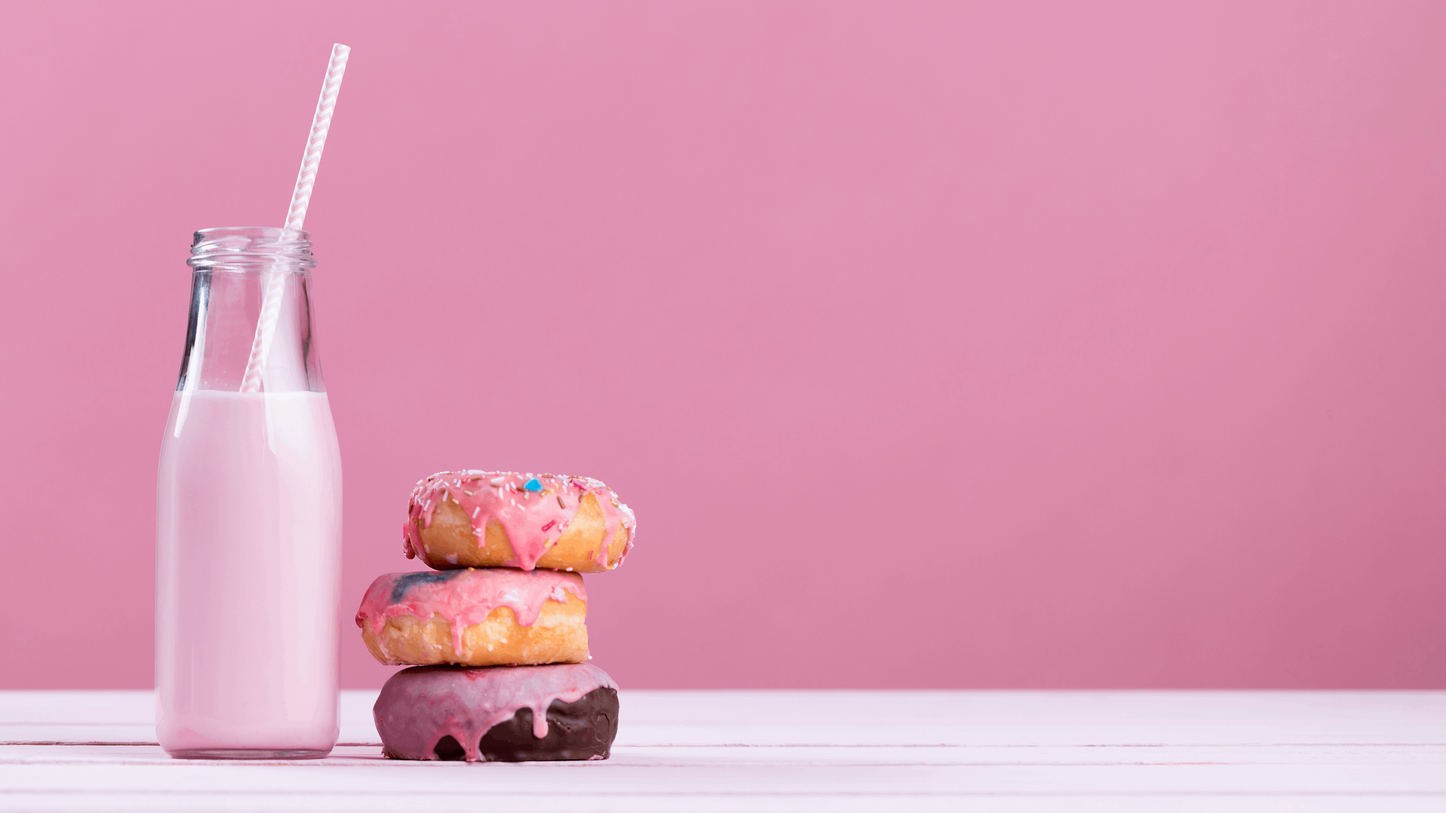
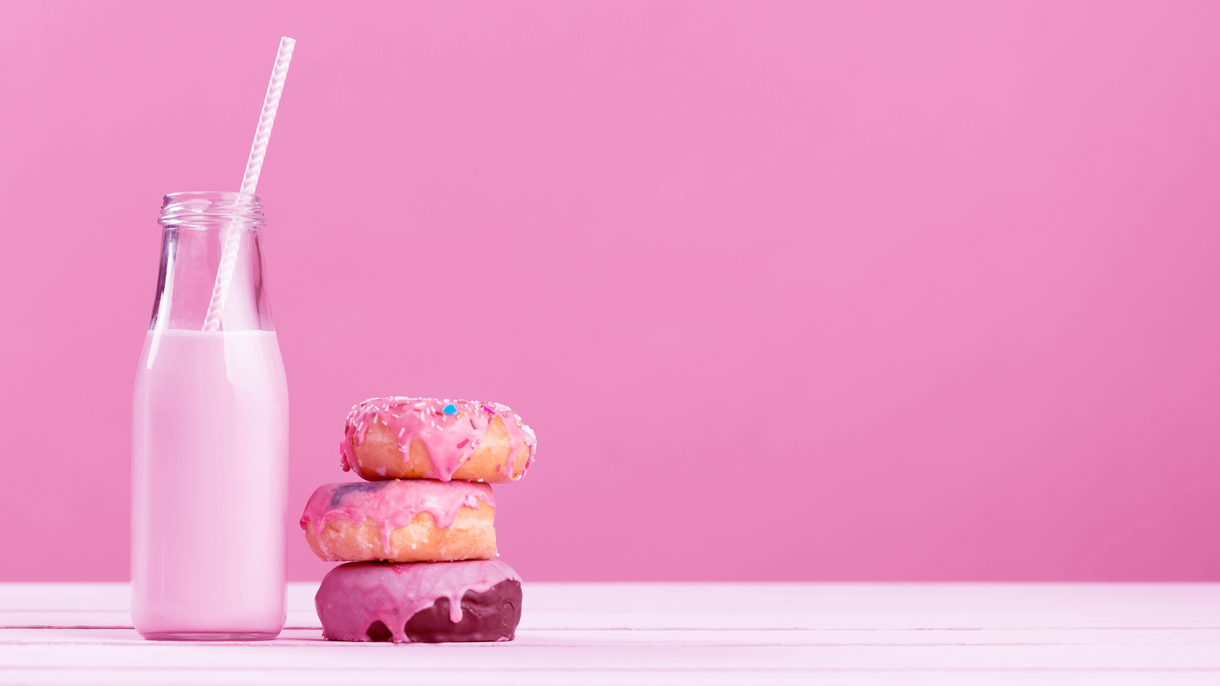
background update and text overlay fix

diff --git a/donuts/css/style.less b/donuts/css/style.less
@@ -53,13 +53,12 @@ body {
   display: block;
   width: 100%;
   height: 100%;
+  min-height: 709px;
   font-family: 'Open Sans', sans-serif;
   background: url(../img/vectorObject.png), url(../img/background.png);
   background-repeat: no-repeat, no-repeat;
   background-size: 100%, cover;
   overflow-x: hidden;
-  -webkit-backdrop-filter: saturate(150%);
-  backdrop-filter: saturate(150%);
   background-color: @white;
   margin: 0 auto;
 }
@@ -262,6 +261,7 @@ header {
   -moz-user-select: none;
   -ms-user-select: none;
   user-select: none;
+  min-height: 109px;
   .signUp {
     .alignment_header();
     background: url(../img/user_icon.png) no-repeat 0 0px;
@@ -389,15 +389,16 @@ header {
   color: @white;
   position: relative;
   z-index: 15;
-  top: 45%;
-  @media only screen and (max-width : 1920px) { top: 295px;  }
-  @media only screen and (max-width : 1366px) { top: 150px;  }
-  @media only screen and (max-width : 1040px) { top: 50px; }
-  @media only screen and (max-width : 360px)  { top: 20px; }
+  padding-top: 45%;
+  min-height: 600px;
+  @media only screen and (max-width : 1920px) { padding-top: 295px;  }
+  @media only screen and (max-width : 1366px) { padding-top: 150px;  }
+  @media only screen and (max-width : 1040px) { padding-top: 50px; }
+  @media only screen and (max-width : 360px)  { padding-top: 20px; }
   .main__content {
     position: absolute;
     right: 20%;
-    background-color: rgba(247, 130, 175, 0.4);
+    background-color: rgba(237, 143, 193, 0.4);
     border-radius: 10px;
     width: 550px;
     display: -webkit-box;
@@ -467,7 +468,7 @@ header {
 
 footer {
   display: block;
-  position: absolute;
+  position: relative;
   width: 100%;
   font-weight: bold;
   color: @color;
@@ -477,9 +478,12 @@ footer {
     text-align: right;
     font-size: 18px;
     margin-top: 48.5px;
+
+    @media only screen and (max-width : 533px)  {  font-size: 14px; text-align: center; }
     .copyright {
       padding-right: 27px;
       letter-spacing: 0.2px;
+      @media only screen and (max-width : 533px)  {  padding: 0; margin: auto; }
     }
   }
 }

diff --git a/donuts/css/style.css b/donuts/css/style.css
@@ -103,13 +103,12 @@ body {
   display: block;
   width: 100%;
   height: 100%;
+  min-height: 709px;
   font-family: 'Open Sans', sans-serif;
   background: url(../img/vectorObject.png), url(../img/background.png);
   background-repeat: no-repeat, no-repeat;
   background-size: 100%, cover;
   overflow-x: hidden;
-  -webkit-backdrop-filter: saturate(150%);
-  backdrop-filter: saturate(150%);
   background-color: #FFE5F2;
   margin: 0 auto;
 }
@@ -336,6 +335,7 @@ header {
   -moz-user-select: none;
   -ms-user-select: none;
   user-select: none;
+  min-height: 109px;
 }
 header .signUp {
   display: block;
@@ -504,32 +504,33 @@ header .search input[type="text"] {
   color: #FFE5F2;
   position: relative;
   z-index: 15;
-  top: 45%;
+  padding-top: 45%;
+  min-height: 600px;
 }
 @media only screen and (max-width: 1920px) {
   .main {
-    top: 295px;
+    padding-top: 295px;
   }
 }
 @media only screen and (max-width: 1366px) {
   .main {
-    top: 150px;
+    padding-top: 150px;
   }
 }
 @media only screen and (max-width: 1040px) {
   .main {
-    top: 50px;
+    padding-top: 50px;
   }
 }
 @media only screen and (max-width: 360px) {
   .main {
-    top: 20px;
+    padding-top: 20px;
   }
 }
 .main .main__content {
   position: absolute;
   right: 20%;
-  background-color: rgba(247, 130, 175, 0.4);
+  background-color: rgba(237, 143, 193, 0.4);
   border-radius: 10px;
   width: 550px;
   display: -webkit-box;
@@ -635,7 +636,7 @@ header .search input[type="text"] {
 }
 footer {
   display: block;
-  position: absolute;
+  position: relative;
   width: 100%;
   font-weight: bold;
   color: #670355;
@@ -647,7 +648,19 @@ footer div {
   font-size: 18px;
   margin-top: 48.5px;
 }
+@media only screen and (max-width: 533px) {
+  footer div {
+    font-size: 14px;
+    text-align: center;
+  }
+}
 footer div .copyright {
   padding-right: 27px;
   letter-spacing: 0.2px;
+}
+@media only screen and (max-width: 533px) {
+  footer div .copyright {
+    padding: 0;
+    margin: auto;
+  }
 }

diff --git a/donuts/index.html b/donuts/index.html
@@ -57,7 +57,7 @@
   </main>
   <footer>
     <div><span class="copyright">© Company Name 2020 All rights reserved</span></div>
-</footer>
+  </footer>
 <script src="js/js.js"></script>
 </body>
 </html>
